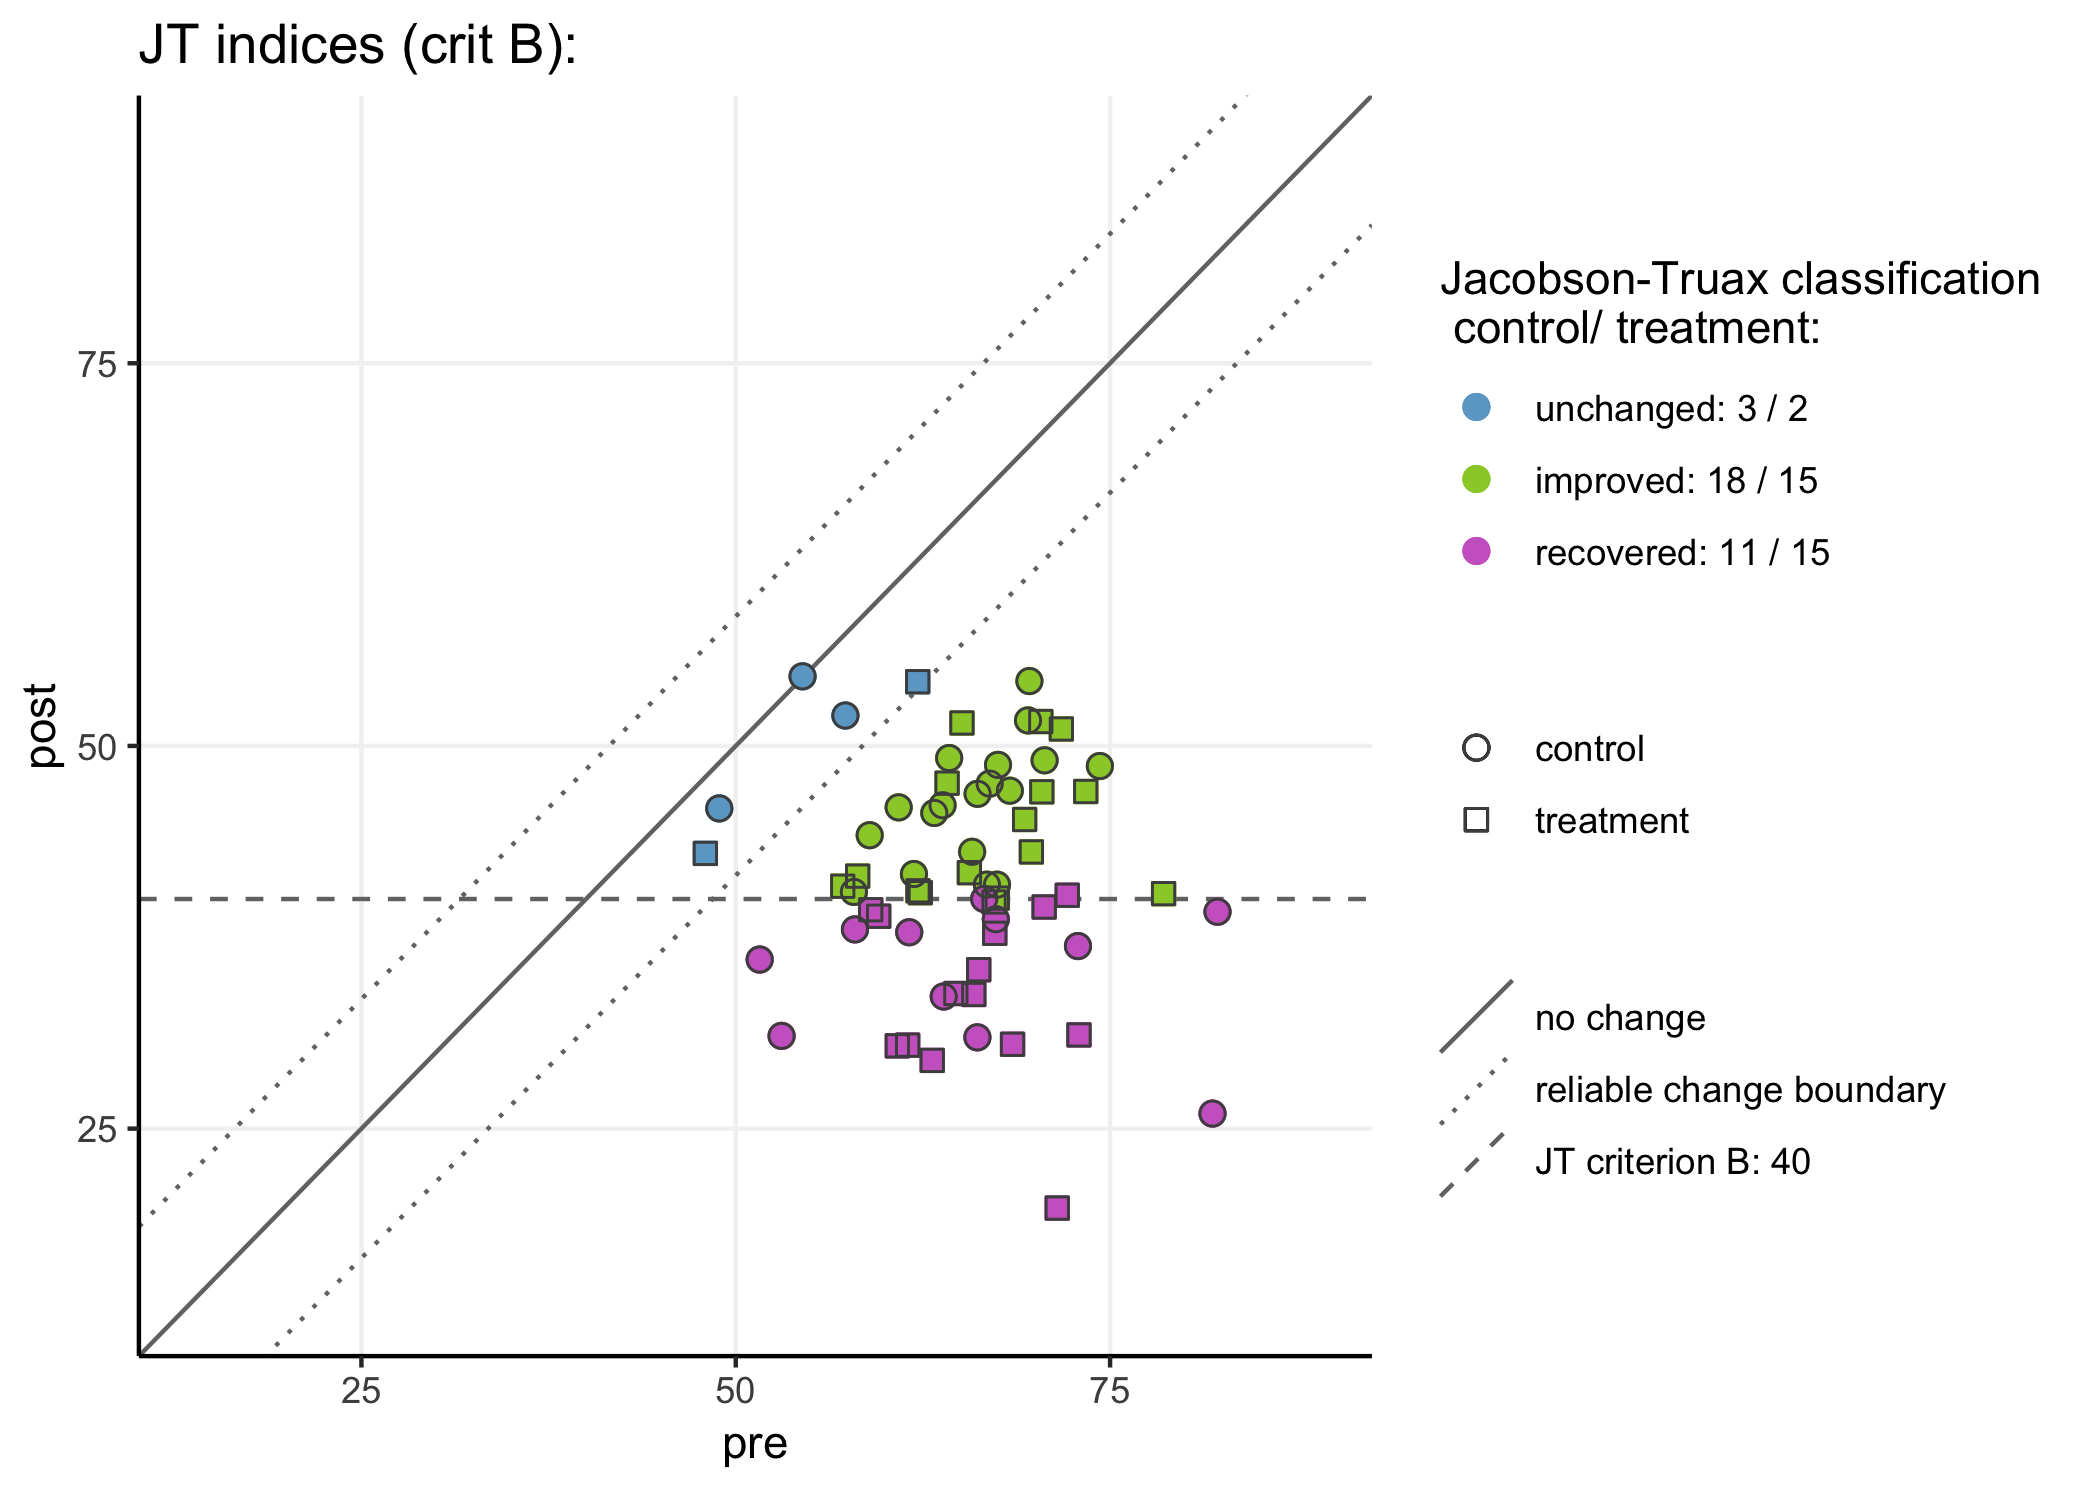
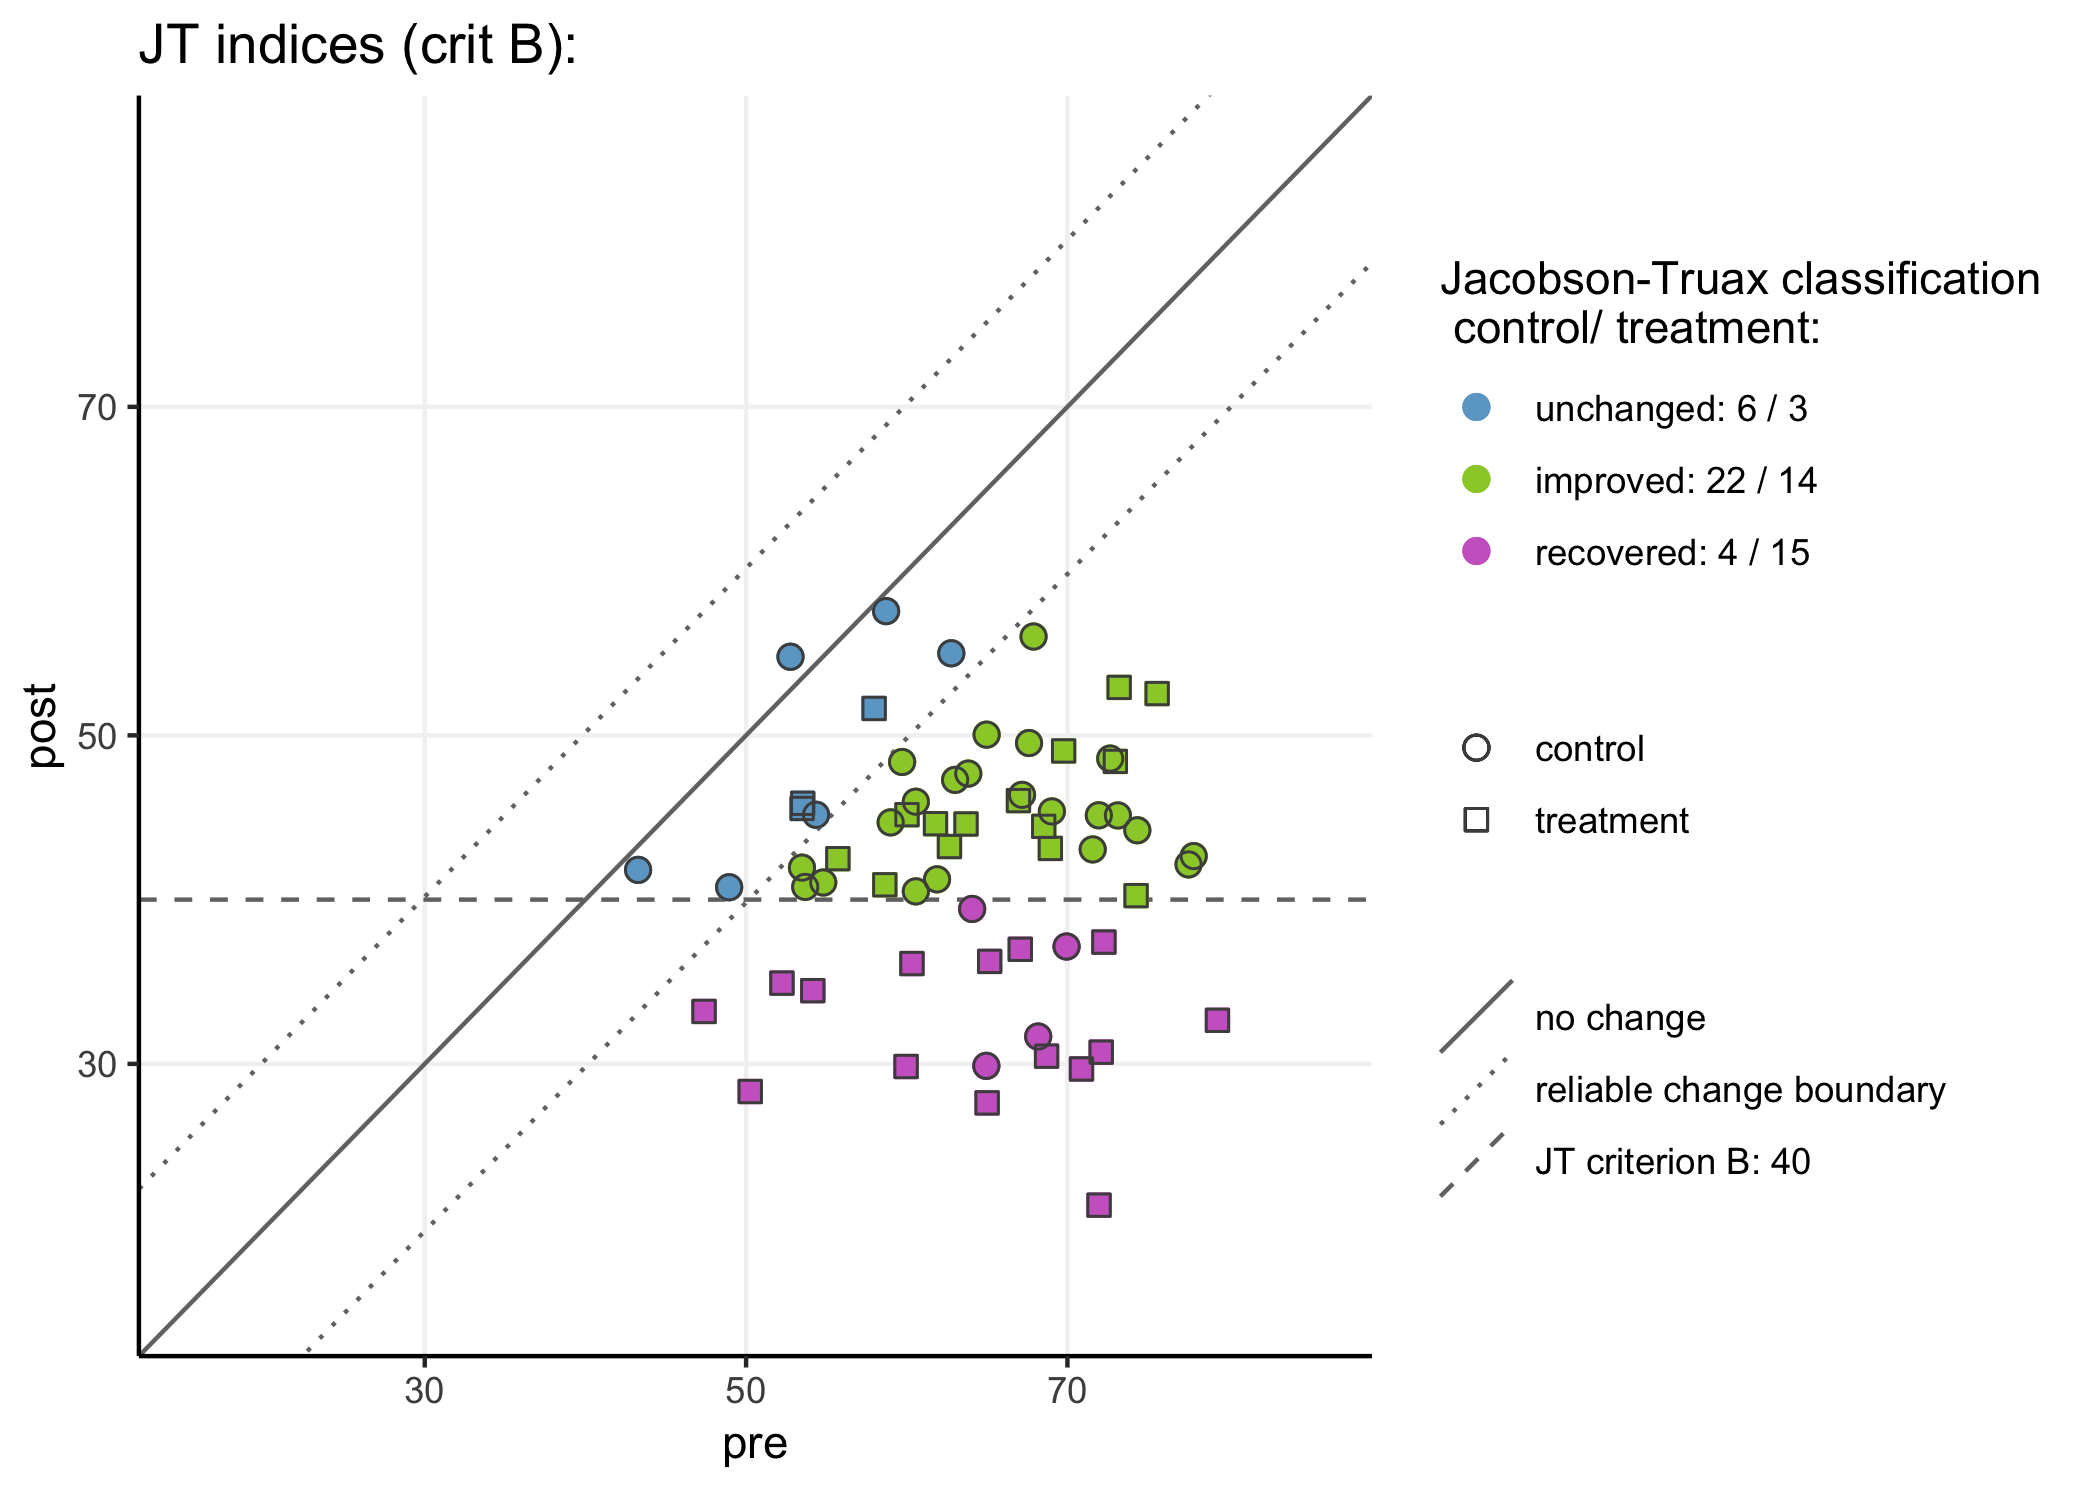
table functions default settings

diff --git a/README.md b/README.md
@@ -119,19 +119,19 @@ JTRCI(data = df,
     ## NB: using the sample baseline distribution to characterize the dysfunctional population. 
     ##     to change: provide norms for dysfunctional population using 'dysfM =' and 'dysfSD ='
 
-    ## Jacobson-Truax criterion A: 51.6
+    ## Jacobson-Truax criterion A: 47.5
 
     ##  this value represents two sd from the baseline  sample mean
 
-    ## 2 participants scored below the Jacobson-Truax cut-off score at the pre-measurement 
+    ## 1 participants scored below the Jacobson-Truax cut-off score at the pre-measurement 
     ##  interpret their Jacobson-Truax classification with caution
 
     ##    Jacobson-Truax classification  N
     ## 1:                  deteriorated  0
-    ## 2:                     unchanged  3
-    ## 3:                      improved  2
-    ## 4:        non reliably recovered  2
-    ## 5:                     recovered 57
+    ## 2:                     unchanged  4
+    ## 3:                      improved 10
+    ## 4:        non reliably recovered  5
+    ## 5:                     recovered 45
 
 <img src="README_files/figure-gfm/unnamed-chunk-8-1.png" height="450px" />
 
@@ -161,13 +161,13 @@ plotRCI(xlab = "score pre", ylab = "score post", plottitle = "my reliable change
 and obtain RCI tables by calling tableRCI():
 
 ``` r
-tableRCI(useGroups = F)
+tableRCI()
 ```
 
     ##    reliable change classification  N
     ## 1:          reliably deteriorated  0
-    ## 2:             no reliable change  5
-    ## 3:              reliably improved 59
+    ## 2:             no reliable change  9
+    ## 3:              reliably improved 55
 
 ``` r
 tableRCI(useGroups = T)
@@ -175,8 +175,8 @@ tableRCI(useGroups = T)
 
     ##    reliable change classification control treatment
     ## 1:          reliably deteriorated       0         0
-    ## 2:             no reliable change       3         2
-    ## 3:              reliably improved      29        30
+    ## 2:             no reliable change       6         3
+    ## 3:              reliably improved      26        29
 
 Parameters for the plot\_JT()/plot\_RCI() functions can also be passed
 directly in the JTRCI() function:
@@ -208,10 +208,10 @@ JTRCI(data = df, pre = "pre", post = "post",  group = "group", ppid = "ppid",
 
     ##    Jacobson-Truax classification control treatment
     ## 1:                  deteriorated       0         0
-    ## 2:                     unchanged       3         2
-    ## 3:                      improved      18        15
+    ## 2:                     unchanged       6         3
+    ## 3:                      improved      22        14
     ## 4:        non reliably recovered       0         0
-    ## 5:                     recovered      11        15
+    ## 5:                     recovered       4        15
 
 <img src="README_files/figure-gfm/unnamed-chunk-12-1.png" height="450px" />
 
@@ -232,17 +232,17 @@ JTRCI(data = df, pre = "pre", post = "post",  group = "group", ppid = "ppid",
     ## Assumed that lower scores are better (and reduction == improvement),
     ##  if that is incorrect: set higherIsBetter = T
 
-    ## Jacobson-Truax criterion C:44.9
+    ## Jacobson-Truax criterion C:42.8
 
     ##  this value represents the weighted midpoint between the dysfunctional and functional norm mean, 
     ##  i.e. the value at which an individual is equally likely to belong to the functional as to the dysfunctional population
 
     ##    Jacobson-Truax classification control treatment
     ## 1:                  deteriorated       0         0
-    ## 2:                     unchanged       3         1
-    ## 3:                      improved      12         7
-    ## 4:        non reliably recovered       0         1
-    ## 5:                     recovered      17        23
+    ## 2:                     unchanged       4         3
+    ## 3:                      improved      15        11
+    ## 4:        non reliably recovered       2         0
+    ## 5:                     recovered      11        18
 
 <img src="README_files/figure-gfm/unnamed-chunk-13-1.png" height="450px" />
 
